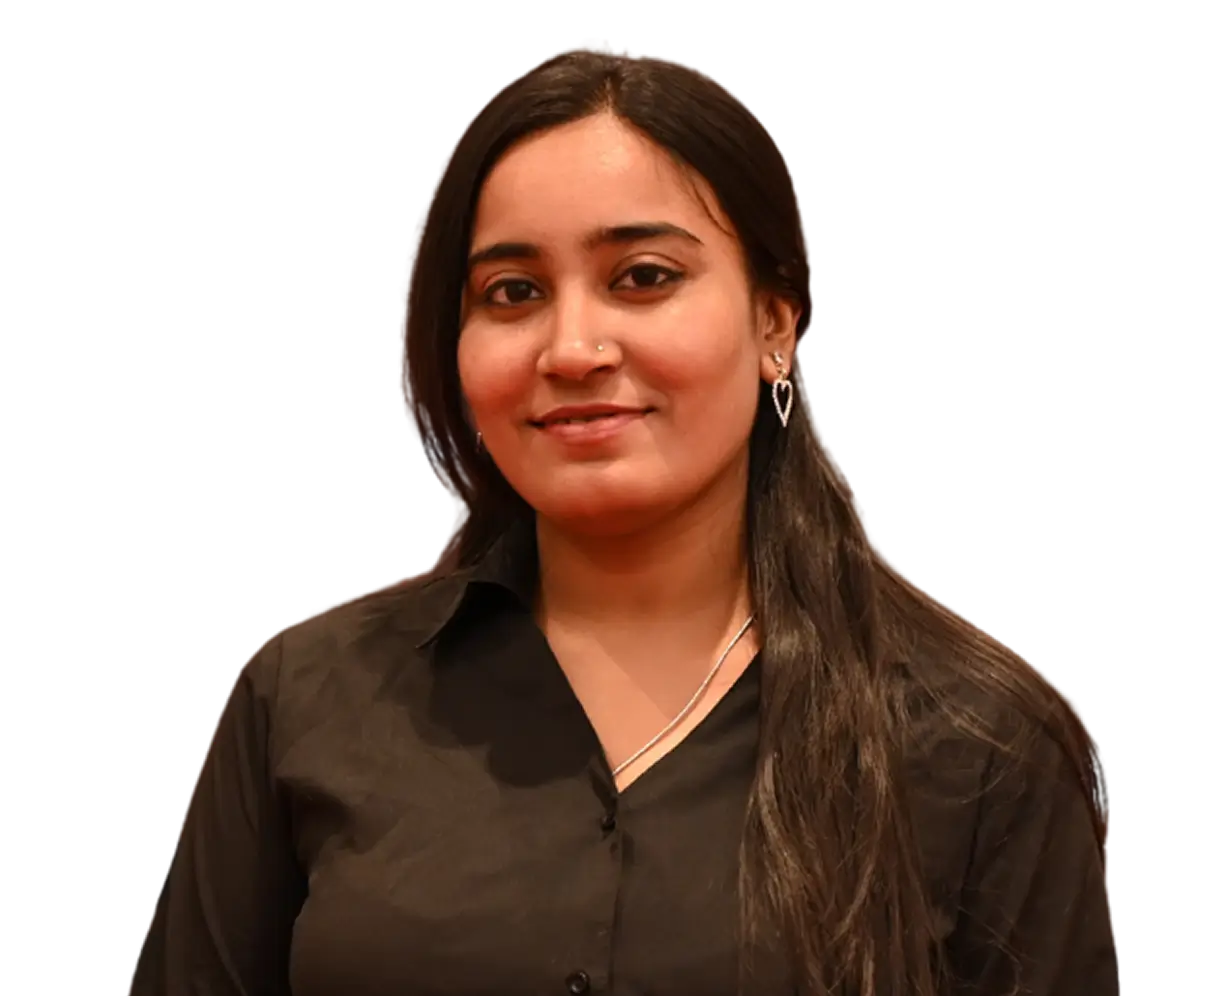
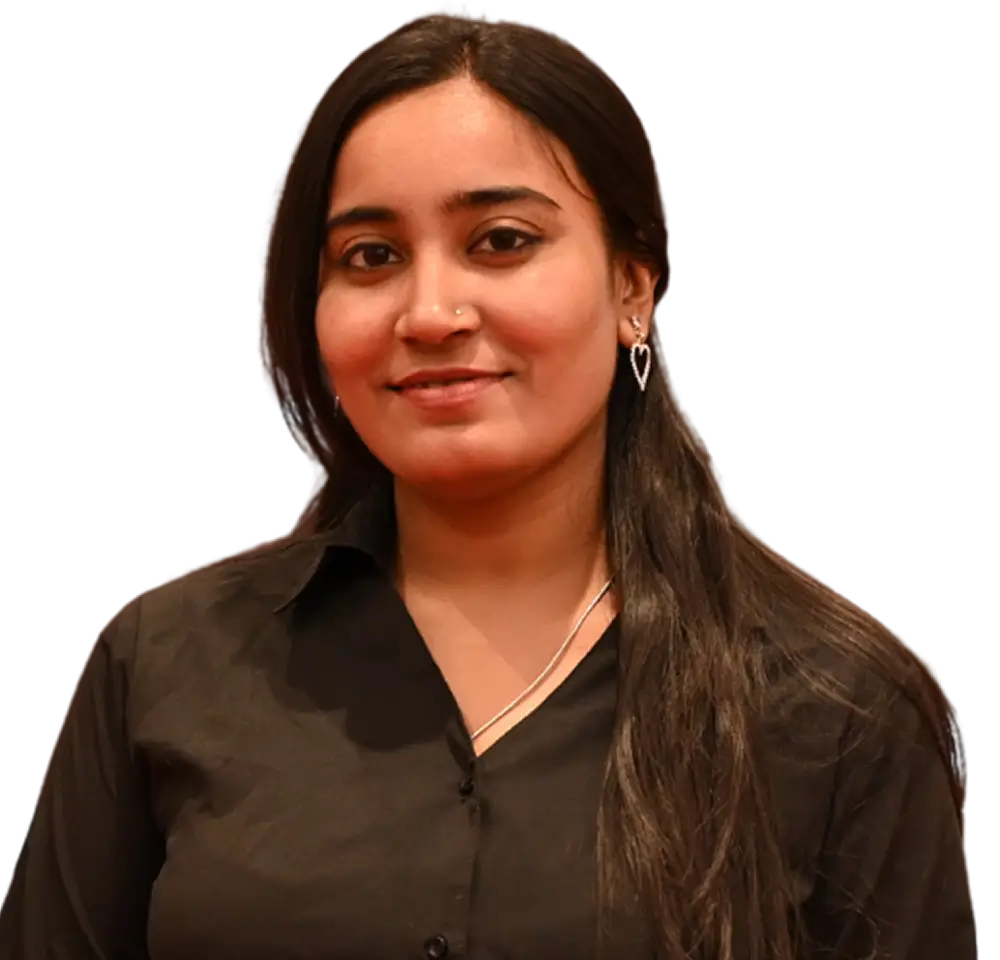
all pages chnages design

diff --git a/src/components/team/NewTeamtestimonial.tsx b/src/components/team/NewTeamtestimonial.tsx
@@ -128,7 +128,7 @@ const NewTeamtestimonial = () => {
     const initAOS = async () => {
       const AOS = (await import('aos')).default;
       AOS.init({
-        duration: 400,
+        duration: 600,
         easing: 'ease-in-out',
         once: true,
         offset: 120,
@@ -167,7 +167,7 @@ const NewTeamtestimonial = () => {
             className="testi-image"
             src={currentStrip1.image}
             data-aos="animated-up"
-            data-aos-duration="400"
+            data-aos-duration="600"
             data-aos-anchor-placement="top-bottom"
           />
           <img
@@ -175,7 +175,7 @@ const NewTeamtestimonial = () => {
             className="testi-data desk-team"
             src={currentStrip1.testimonialDesk}
             data-aos="animated-left"
-            data-aos-duration="400"
+            data-aos-duration="600"
             data-aos-anchor=".first .testi-image"
           />
           <img
@@ -183,7 +183,7 @@ const NewTeamtestimonial = () => {
             className="testi-data mob-team"
             src={currentStrip1.testimonialMob}
             data-aos="animated-left"
-            data-aos-duration="400"
+            data-aos-duration="600"
             data-aos-anchor=".first .testi-image"
           />
         </div>
@@ -195,7 +195,7 @@ const NewTeamtestimonial = () => {
             className="testi-image"
             src={currentStrip2.image}
             data-aos="animated-up"
-            data-aos-duration="400"
+            data-aos-duration="600"
             data-aos-anchor-placement="top-bottom"
           />
           <img
@@ -203,7 +203,7 @@ const NewTeamtestimonial = () => {
             className="testi-data desk-team"
             src={currentStrip2.rightSideTestimonial}
             data-aos="animated-right"
-            data-aos-duration="400"
+            data-aos-duration="600"
             data-aos-anchor=".second .testi-image"
           />
           <img
@@ -211,7 +211,7 @@ const NewTeamtestimonial = () => {
             className="testi-data mob-team"
             src={currentStrip2.rightSideTestimonialMob}
             data-aos="animated-right"
-            data-aos-duration="400"
+            data-aos-duration="600"
             data-aos-anchor=".second .testi-image"
           />
         </div>
@@ -223,7 +223,7 @@ const NewTeamtestimonial = () => {
             className="testi-image"
             src={currentStrip3.image}
             data-aos="animated-up"
-            data-aos-duration="400"
+            data-aos-duration="600"
             data-aos-anchor-placement="top-bottom"
           />
           <img
@@ -231,7 +231,7 @@ const NewTeamtestimonial = () => {
             className="testi-data desk-team"
             src={currentStrip3.testimonialDesk}
             data-aos="animated-left"
-            data-aos-duration="400"
+            data-aos-duration="600"
             data-aos-anchor=".third .testi-image"
           />
           <img
@@ -239,7 +239,7 @@ const NewTeamtestimonial = () => {
             className="testi-data mob-team"
             src={currentStrip3.testimonialMob}
             data-aos="animated-left"
-            data-aos-duration="400"
+            data-aos-duration="600"
             data-aos-anchor=".third .testi-image"
           />
         </div>

diff --git a/src/styles/index.css b/src/styles/index.css
@@ -129,7 +129,7 @@
   overflow: hidden;
   position: relative;
   background: #F5CD47;
-  height: 530px;
+  height: 450px;
   -webkit-clip-path: polygon(0 0, 100% 0, 100% 85%, 0 100%);
   clip-path: polygon(0 0, 100% 0, 100% 85%, 0 100%);
 }
@@ -138,7 +138,7 @@
   bottom: 0;
   left: 10%;
   width: 100%;
-  max-width: 450px;
+  max-width: 400px;
   display: block;
   margin: auto;
 }
@@ -159,7 +159,7 @@
   margin-top: -50px;
   position: relative;
   background: #AA83DC;
-  height: 530px;
+  height: 450px;
   -webkit-clip-path: polygon(0 15%, 100% 0, 100% 100%, 0 85%);
   clip-path: polygon(0 15%, 100% 0, 100% 100%, 0 85%);
 }
@@ -168,7 +168,7 @@
   bottom: 0;
   right: 10%;
   width: 100%;
-  max-width: 450px;
+  max-width: 400px;
   display: block;
   margin: auto;
 }
@@ -185,15 +185,15 @@
     bottom: 0;
     left: 10%;
     width: 100%;
-    max-width: 450px;
+    max-width: 400px;
     display: block;
 }
 .team-first-banner .third .testi-data {
     position: absolute;
     width: 100%;
     max-width: 500px;
-    left: 40%;
-    top: 38%;
+    left: 45%;
+    top: 25%;
 }
 
 
@@ -201,7 +201,7 @@
     margin-top: -50px;
     position: relative;
     background: #ED8376;
-    height: 520px;
+    height: 450px;
     -webkit-clip-path: polygon(0 0, 100% 15%, 100% 100%, 0 100%);
     clip-path: polygon(0 0, 100% 15%, 100% 100%, 0 100%);
 }
